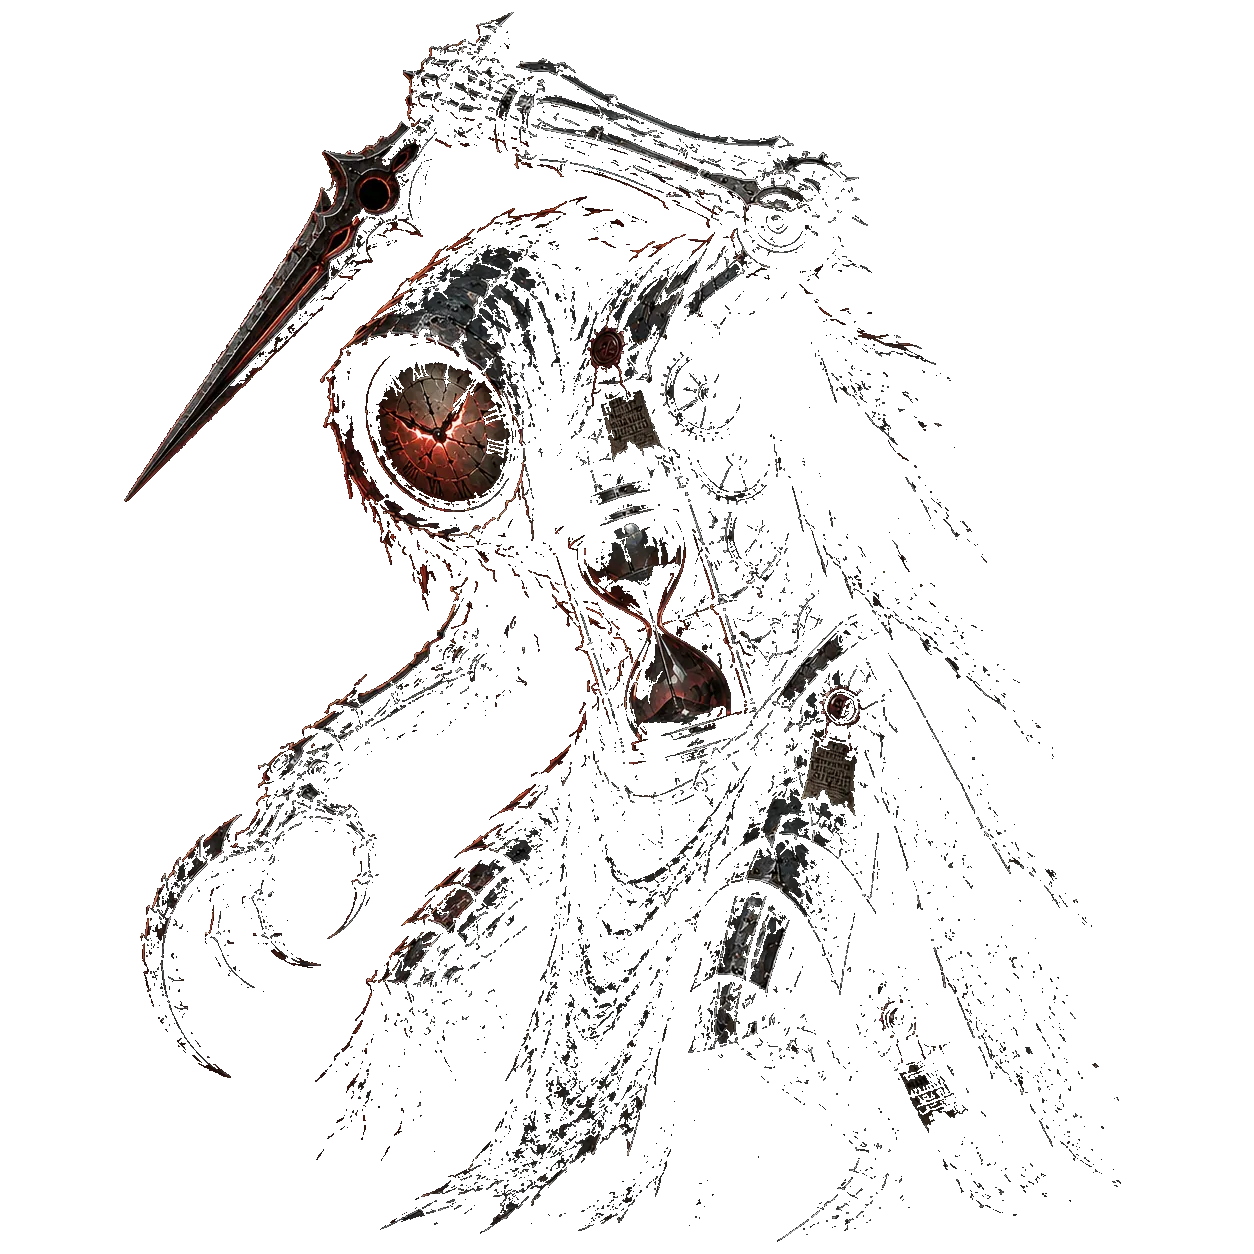
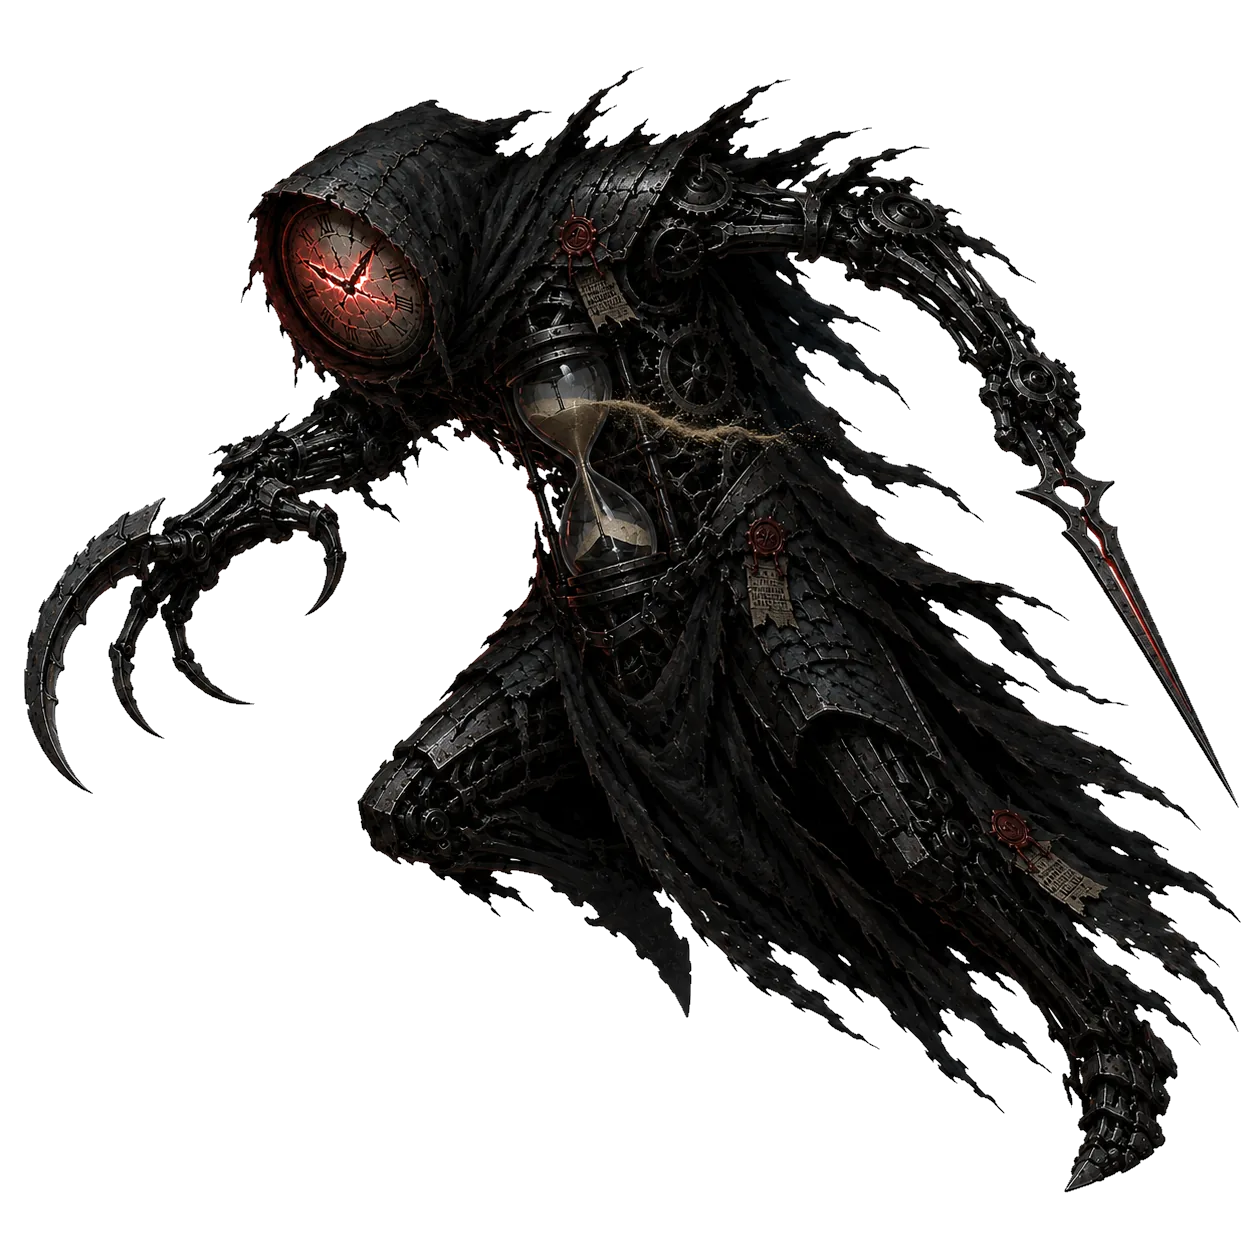
Grote art-drop: volledige Act 3-scèneset + 3 poses (cache v38)
- Act 3 "Het Slachtblok": 16 kaarten + 10 relikwieën + 4 events +
  6 achtergronden als webp (86 MB PNG -> 6 MB, -92%). Slapend tot de
  Act 3-bouw; act3-blok in ACHTERGRONDEN alvast gewired (incl. finale-
  slot voor het DICKtator-gevecht).
- de_deadline_attack HERSTELD: de witte-spook-cut (zwart-op-zwart-
  origineel) vervangen door een hergenereerde plaat op wit.
- Nieuwe gif-reactieposes: de_inktvlek_gif (drinkt gif in) +
  spiegelwachter_gif (kaatst gif op z'n spiegelschild).
- PROMPTS.txt: de 3 pose-prompts gedocumenteerd (met de wit/zwart-
  achtergrond-lessen); dambord-script kreeg een strakke zwart-key
  (opt-in ZWART-set) voor felle figuren op effen zwart.
- Alle 3 poses in-game geverifieerd via het bestiarium.

diff --git a/js/art.js b/js/art.js
@@ -597,6 +597,33 @@ const ACHTERGRONDEN = {
     beloning: 'Act 2 achtergronden/Overwinningsachtergrond2gewoon.webp',
     overwinning: 'Act 2 achtergronden/Overwinningsachtergrond2episch.webp',
     nederlaag: 'Act 2 achtergronden/Achtergrond nederlaag ACT2.webp'
+  },
+  /* Act 3 — Het Slachtblok. Art staat klaar; de act zelf is nog niet gebouwd
+     (ACTS_MAX=2), dus dit blok is slapend tot de Act 3-bouw. `finale` is de
+     aparte plaat voor het DICKtator-eindgevecht. */
+  act3: {
+    kaart: 'Act 3 achtergronden/Achtergrond ACT 3 laadscherm.webp',
+    gevecht: [
+      'Act 3 achtergronden/Gevechtstijl Act 3 stijl 1.webp',
+      'Act 3 achtergronden/Gevechtstijl Act 3 stijl 2.webp',
+      'Act 3 achtergronden/Gevechtstijl Act 3 stijl 3.webp',
+      'Act 3 achtergronden/Gevechtstijl Act 3 stijl 4.webp'
+    ],
+    episch: [
+      'Act 3 achtergronden/Gevechtstijl Act 3 stijl EPISCH 1.webp',
+      'Act 3 achtergronden/Gevechtstijl Act 3 stijl EPISCH 2.webp',
+      'Act 3 achtergronden/Gevechtstijl Act 3 stijl EPISCH 3.webp'
+    ],
+    finale: 'Act 3 achtergronden/Achtergrond ACT 3 FINALE.webp',
+    winkel: 'Act 3 achtergronden/Achtergrond verkoper ACT3.webp',
+    winkelEasterEgg: 'Act 3 achtergronden/Achtergrond verkoper ACT3 easter egg.webp',
+    event: 'Act 3 achtergronden/Achtergrondvraagtekenencounter ACT3.webp',
+    eventRelikwie: 'Act 3 achtergronden/Achtergrondvraagtekenrelikwieartefact ACT3.webp',
+    rust: 'Act 3 achtergronden/Achtergrondrust3.webp',
+    schat: 'Act 3 achtergronden/Achtergrondschatkist3.webp',
+    beloning: 'Act 3 achtergronden/Overwinningsachtergrond3gewoon.webp',
+    overwinning: 'Act 3 achtergronden/Overwinningsachtergrond3episch.webp',
+    nederlaag: 'Act 3 achtergronden/Achtergrond nederlaag ACT3.webp'
   }
 };
 window.ACHTERGRONDEN = ACHTERGRONDEN;

diff --git a/sw.js b/sw.js
@@ -2,7 +2,7 @@
    Code (html/js/css): network-first — online krijg je altijd de nieuwste versie.
    Art (assets/): cache-first — afbeeldingen veranderen niet, dus herbezoeken
    laden vrijwel instant. Offline werkt alles vanuit de cache. */
-const CACHE = 'slayit-v37'; /* v37: grondige audit-fixes (anti-softlock trekt i.p.v. gratis energie · drank/menu-toets repeat-guard · SW-controllerchange-reload zodat een open client de nieuwe build meteen krijgt · 3D krijgt de gif-reactiepose · dode gifWeerstand-conditie weg · SCHAARSTE-fallbacks · projecteer/stof-perf) + de eerder ongebumpte wijzigingen (drank-drinkmoment + drankartwork · intent-pill-fix · scherf-persist/dood-bank · Redacteur-cover verduisterd.webp) */
+const CACHE = 'slayit-v38'; /* v38: grote art-drop — de_deadline_attack HERSTELD (witte-spook-cut vervangen; op wit hergenereerd), nieuwe gif-reactieposes de_inktvlek_gif + spiegelwachter_gif, en de volledige Act 3-scèneset (16 kaarten + 10 relikwieën + 4 events + 6 achtergronden, slapend tot de Act 3-bouw; act3-blok in ACHTERGRONDEN klaargezet) */
 const BESTANDEN = [
   '.',
   'css/style.css',
